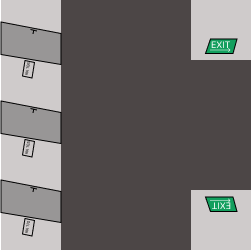
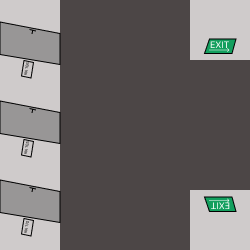
Orientation des tuiles fixes sur PlateauWindow

diff --git a/src/view/PlateauWindow.java b/src/view/PlateauWindow.java
@@ -114,12 +114,13 @@ public class PlateauWindow extends JFrame {
                             image = ImageHelper.rotateCounterClockwise(image);
                             break;
                         case EAST:
-                            image = ImageHelper.rotateClockwise(image);
+
                             break;
                         case SOUTH:
-                            image = ImageHelper.rotateClockwise(ImageHelper.rotateClockwise(image));
+                            image = ImageHelper.rotateClockwise(image);
                             break;
                         case WEST:
+                            image = ImageHelper.rotateClockwise(ImageHelper.rotateClockwise(image));
                             break;
                         case null :
                             break;
@@ -132,46 +133,30 @@ public class PlateauWindow extends JFrame {
             }
         }
 
-        //scale les images
-        /*
-        if (ANGLEpic != null) {
-            Image scaledImage = ANGLEpic.getScaledInstance(100, 100, Image.SCALE_SMOOTH);
-            panels[0][cols - 1].add(new JLabel(new ImageIcon(scaledImage))); // Top-right corner
-
-            BufferedImage rotatedImage = ImageHelper.rotateClockwise(ANGLEpic);
-            scaledImage = rotatedImage.getScaledInstance(100, 100, Image.SCALE_SMOOTH);
-            panels[rows - 1][cols - 1].add(new JLabel(new ImageIcon(scaledImage))); // Bottom-right corner
-
-
-            rotatedImage = ImageHelper.rotateClockwise(ImageHelper.rotateClockwise(ANGLEpic));
-            scaledImage = rotatedImage.getScaledInstance(100, 100, Image.SCALE_SMOOTH);
-            panels[rows - 1][0].add(new JLabel(new ImageIcon(scaledImage))); // Bottom-left corner
-
-
-            rotatedImage = ImageHelper.rotateCounterClockwise(ANGLEpic);
-            scaledImage = rotatedImage.getScaledInstance(100, 100, Image.SCALE_SMOOTH);
-            panels[0][0].add(new JLabel(new ImageIcon(scaledImage))); // Top-left corner
-
-
-
-
-            this.addComponentListener(new ComponentAdapter() {
-                public void componentResized(ComponentEvent componentEvent) {
-                    for (JPanel[] listePanel: panels) {
-                        for (JPanel pan: listePanel) {
-                            for (Component l : pan.getComponents()) {
-                                if ( l instanceof JLabel ) {
-                                    ((JLabel) l).setIcon(new ImageIcon(scaledImage.getScaledInstance(100,100,Image.SCALE_SMOOTH)));
-                                }
-                            }
-                        }
+        // Add non-fixed tiles to the grid
+        for (int row = 0; row < rows; row++) {
+            for (int col = 0; col < cols; col++) {
+                Tuile tuile = grid.get(row).get(col);
+                if (tuile != null && !tuile.isFixe()) {
+                    BufferedImage image = null;
+                    switch (tuile.getPattern()) {
+                        case ANGLE:
+                            image = ANGLEpic;
+                            break;
+                        case DROIT:
+                            image = DROITpic;
+                            break;
+                        case T:
+                            image = Tpic;
+                            break;
+                    }
+                    if (image != null) {
+                        Image scaledImage = image.getScaledInstance(100, 100, Image.SCALE_SMOOTH);
+                        panels[row][col].add(new JLabel(new ImageIcon(scaledImage)));
                     }
                 }
-            });
-
-
+            }
         }
-        */
 
         // Set the content pane
         setContentPane(Plateau);

diff --git a/src/model/Plateau.java b/src/model/Plateau.java
@@ -47,10 +47,10 @@ public class Plateau {
                     listeObjectif.remove(listeObjectif.size()-1);
                 }
                 if((j == 0)&&(k == 0)){
-                    this.m_plateau.get(j).get(k).setDirection(Direction.NORTH);
+                    this.m_plateau.get(j).get(k).setDirection(Direction.WEST);
                 }
                 if((j == 0)&&(k == 6)){
-                    this.m_plateau.get(j).get(k).setDirection(Direction.WEST);
+                    this.m_plateau.get(j).get(k).setDirection(Direction.NORTH);
                 }
                 if((j == 6)&&(k == 0)){
                     this.m_plateau.get(j).get(k).setDirection(Direction.SOUTH);
@@ -80,6 +80,25 @@ public class Plateau {
 
 
 
+        }
+
+        for(int i = 0 ; i < 7 ; i++){
+            for(int j = 0 ; j < 7 ; j++){
+                if((i == 0 && j == 2) || (i == 0 && j == 4) || (i == 2 && j == 4)){
+                    this.m_plateau.get(i).get(j).setDirection(Direction.SOUTH);
+                }
+                if((i == 2 && j == 0) || (i == 4 && j == 0) || (i == 2 && j == 2)){
+                    this.m_plateau.get(i).get(j).setDirection(Direction.EAST);
+                }
+                if((i == 2 && j == 6) || (i == 4 && j == 6) || (i == 4 && j == 4)){
+                    this.m_plateau.get(i).get(j).setDirection(Direction.WEST);
+                }
+                if((i == 6 && j == 2) || (i == 6 && j == 4) || (i == 4 && j == 2)){
+                    this.m_plateau.get(i).get(j).setDirection(Direction.NORTH);
+                }
+
+
+            }
         }
         for (List<Tuile> ligne: this.m_plateau) {
             for (Tuile t: ligne) {